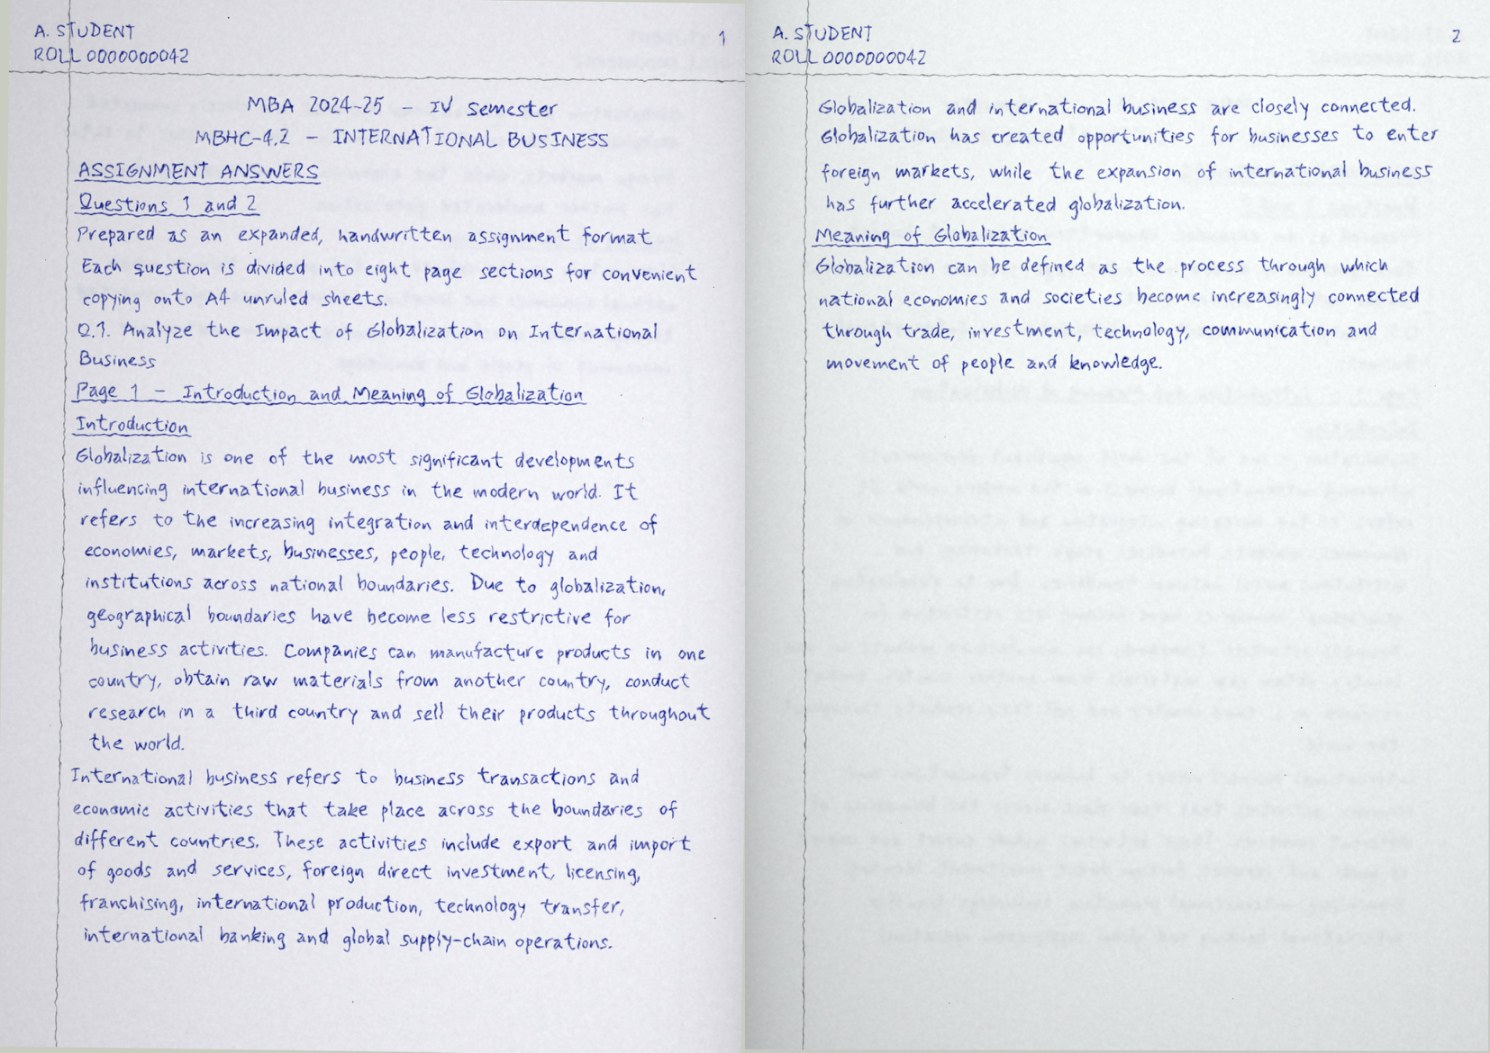
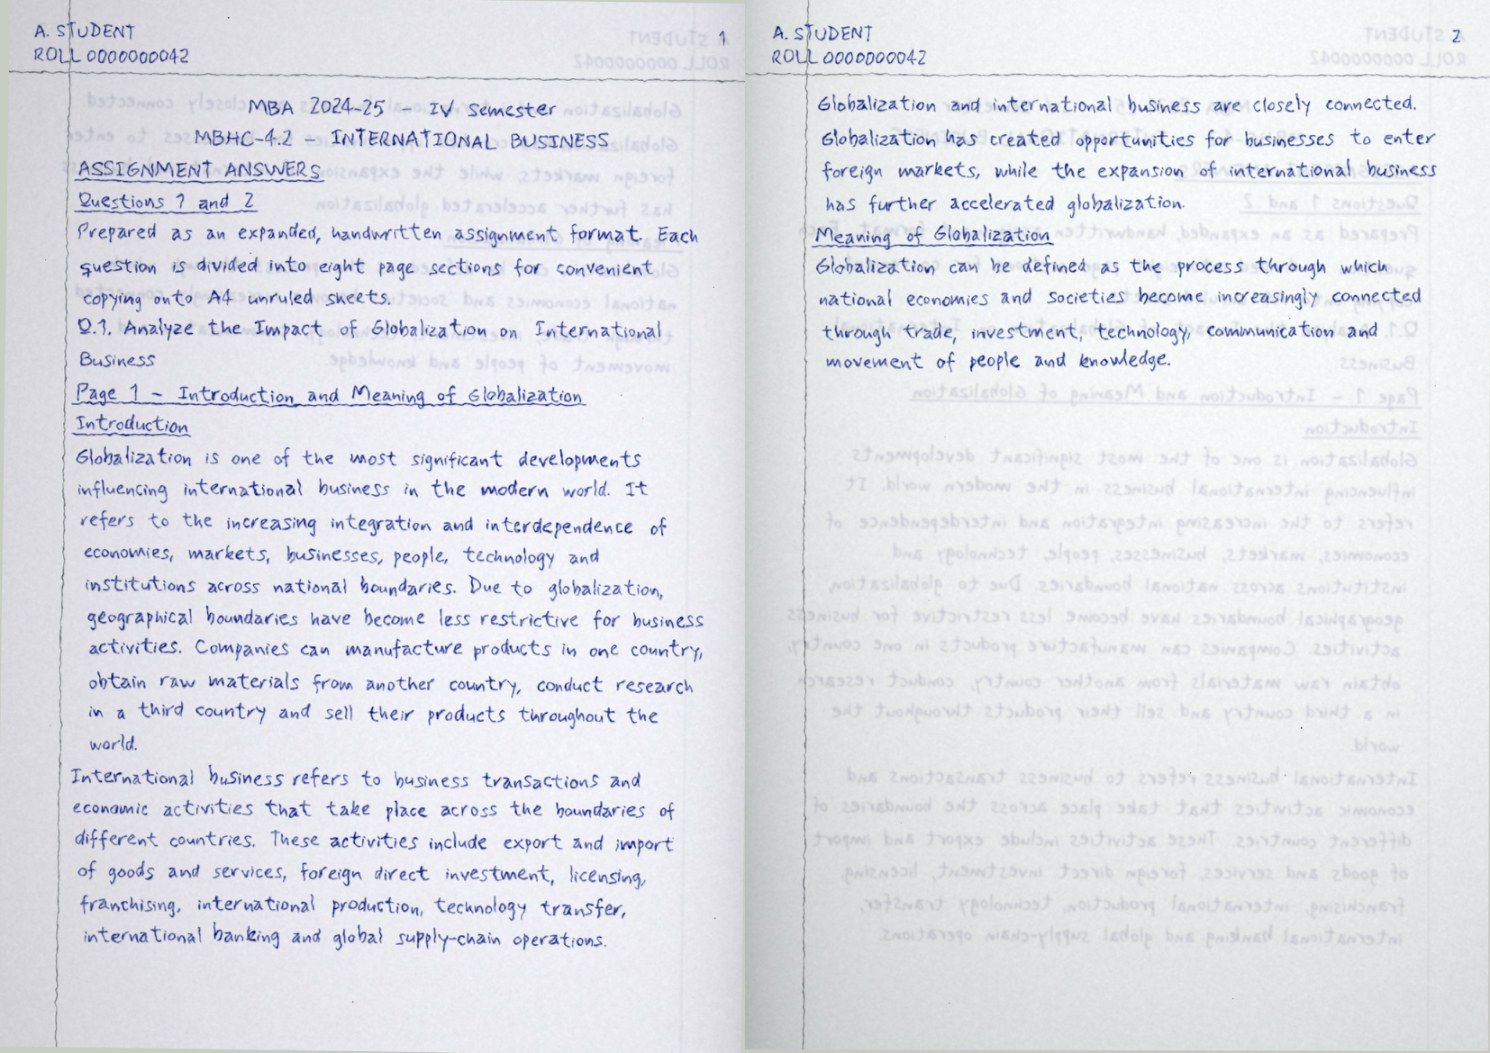
Show-through levels and pen-groove shadows for scan/photo looks
- show_through_level light/medium/strong: reverse-side writing (mirrored,
  half-resolution uint8 masks) now visible like on a photographed sheet;
  medium is the preset default
- pen_shadow: faint shadow along each stroke from the groove a ballpoint
  presses into paper (darkens paper only; text layer untouched)
- UI: show-through level select, pen-shadow toggle; preset enables both
- tests: levels darken progressively, audits still read exact text

Claude-Session: https://claude.ai/code/session_01UveRA7UWHEGDkfAG5xhPtB

Changed region(s): [[0.0309, 0.0912, 0.4631, 0.9117], [0.5557, 0.0912, 0.957, 0.3647]]

diff --git a/frontend/src/preview/SettingsPanel.jsx b/frontend/src/preview/SettingsPanel.jsx
@@ -20,6 +20,8 @@ export const DEFAULT_SETTINGS = {
   underline_headings: false,
   plain_headings: false,
   show_through: false,
+  show_through_level: 'medium',
+  pen_shadow: false,
   watermark: false,
   output: 'scanned',
   variation: 1,
@@ -42,6 +44,8 @@ export const ASSIGNMENT_PRESET = {
   underline_headings: true,
   plain_headings: true,
   show_through: true,
+  show_through_level: 'medium',
+  pen_shadow: true,
   font_size: 17,
   line_spacing: 1.5,
   paragraph_spacing: 0,
@@ -125,7 +129,7 @@ export default function SettingsPanel({ settings, onChange, compact = false }) {
       </label>
       <label className="field">
         <span>Paper</span>
-        <select className="select" value={settings.paper} onChange={(e) => set('paper')(e.target.value)}>
+        <select className="select" value={settings.paper} onChange={(e) => set('paper')(e.target.value)} data-testid="paper">
           <option value="ruled">Ruled</option>
           <option value="blank">Blank</option>
           <option value="grid">Grid</option>
@@ -169,7 +173,21 @@ export default function SettingsPanel({ settings, onChange, compact = false }) {
       </label>
       <YesNo label="Underline headings (hand-drawn)" value={settings.underline_headings} onChange={set('underline_headings')} testid="underline-headings" />
       <YesNo label="Headings written like normal text (not bold/large)" value={settings.plain_headings} onChange={set('plain_headings')} testid="plain-headings" />
-      <YesNo label="Show-through from back of page (scan/photo look)" value={settings.show_through} onChange={set('show_through')} testid="show-through" />
+      <label className="field">
+        <span>Writing showing through from the back (scan/photo look)</span>
+        <select
+          className="select"
+          value={settings.show_through ? settings.show_through_level || 'medium' : 'off'}
+          onChange={(e) => onChange({ ...settings, show_through: e.target.value !== 'off', show_through_level: e.target.value === 'off' ? settings.show_through_level || 'medium' : e.target.value })}
+          data-testid="show-through"
+        >
+          <option value="off">Off</option>
+          <option value="light">Light</option>
+          <option value="medium">Medium (like real paper)</option>
+          <option value="strong">Strong (thin paper)</option>
+        </select>
+      </label>
+      <YesNo label="Pen-pressure shadow on strokes (scan/photo look)" value={settings.pen_shadow} onChange={set('pen_shadow')} testid="pen-shadow" />
       <label className="field">
         <span>“Generated with WriteAI” footer</span>
         <select className="select" value={settings.watermark ? 'yes' : 'no'} onChange={(e) => set('watermark')(e.target.value === 'yes')}>

diff --git a/frontend/e2e/assignment-sheet.spec.js b/frontend/e2e/assignment-sheet.spec.js
@@ -15,16 +15,17 @@ test('assignment sheet preset renders header, top-right page numbers and heading
   await page.getByTestId('preset-assignment').click();
   await page.getByTestId('header-name').fill('Test Student');
   await page.getByTestId('header-id').fill('ROLL-123');
-  await expect(page.getByLabel('Paper')).toHaveValue('assignment');
+  await expect(page.getByTestId('paper')).toHaveValue('assignment');
   await expect(page.getByTestId('page-numbers')).toHaveValue('top-right');
   await expect(page.getByTestId('underline-headings')).toHaveValue('yes');
+  await expect(page.getByTestId('show-through')).toHaveValue('medium');
 
   // Settings are saved per document (the preset + typed header).
   await expect
     .poll(async () => (await (await request.get(`/api/documents/${id}/render-settings`)).json()).header_id, { timeout: 10_000 })
     .toBe('ROLL-123');
   const saved = await (await request.get(`/api/documents/${id}/render-settings`)).json();
-  expect(saved).toMatchObject({ paper: 'assignment', style: 'student', ink: 'ballpoint', output: 'photo', header_name: 'Test Student', underline_headings: true, plain_headings: true, show_through: true });
+  expect(saved).toMatchObject({ paper: 'assignment', style: 'student', ink: 'ballpoint', output: 'photo', header_name: 'Test Student', underline_headings: true, plain_headings: true, show_through: true, show_through_level: 'medium', pen_shadow: true });
 
   await page.getByTestId('update-preview').click();
   await expect(page.getByTestId('preview-page').first()).toBeVisible({ timeout: 60_000 });
@@ -37,7 +38,7 @@ test('assignment sheet preset renders header, top-right page numbers and heading
 
   // Notebook preset puts the defaults back but keeps the typed name/ID.
   await page.getByTestId('preset-notes').click();
-  await expect(page.getByLabel('Paper')).toHaveValue('ruled');
+  await expect(page.getByTestId('paper')).toHaveValue('ruled');
   await expect(page.getByTestId('underline-headings')).toHaveValue('no');
   await expect(page.getByTestId('header-name')).toHaveValue('Test Student');
 });

diff --git a/backend/pdf/scan.py b/backend/pdf/scan.py
@@ -46,7 +46,7 @@ def back_of_page(masks: list[np.ndarray], i: int) -> np.ndarray:
         src = masks[i + 1] if i + 1 < len(masks) else masks[i - 1]
     else:
         src = np.roll(masks[i], masks[i].shape[0] // 37, axis=0)
-    return src[:, ::-1]
+    return np.ascontiguousarray(src[:, ::-1])
 
 
 def _smooth_noise(rng, h: int, w: int, sigma: float, amp: float) -> np.ndarray:
@@ -76,7 +76,26 @@ def hand_warp(rgb: np.ndarray, rng, dpi: int) -> np.ndarray:
     return cv2.remap(rgb, m1, m2, interpolation=cv2.INTER_LINEAR, borderMode=cv2.BORDER_REPLICATE)
 
 
-def scan_effect(rgb: np.ndarray, seed: int, dpi: int, back: np.ndarray | None = None, look: str = "scanned", thin_px: int = 0) -> np.ndarray:
+# Show-through levels: (darkening strength, blur in px at 150 DPI). Medium
+# matches a photographed assignment on ordinary 70 gsm paper.
+THROUGH_LEVELS = {"light": (1.0, 2.4), "medium": (2.6, 1.5), "strong": (4.0, 1.1)}
+
+
+def pen_groove_shadow(img: np.ndarray, ink: np.ndarray, k: float) -> None:
+    """A ballpoint presses a groove into the paper; light from the side puts
+    a faint shadow along one edge of every stroke. Darkens the paper just
+    below-right of the ink (in place)."""
+    h, w = ink.shape
+    d = max(1.0, 1.1 * k)
+    m = np.float32([[1, 0, d], [0, 1, d]])
+    shadow = cv2.warpAffine(ink, m, (w, h), flags=cv2.INTER_LINEAR, borderValue=0)
+    cv2.GaussianBlur(shadow, (0, 0), 0.9 * k, dst=shadow)
+    shadow *= 1.0 - ink  # only on paper, never over the ink itself
+    for c, tone in enumerate((0.14, 0.14, 0.12)):  # grey, a touch warm
+        img[..., c] *= 1.0 - tone * shadow
+
+
+def scan_effect(rgb: np.ndarray, seed: int, dpi: int, back: np.ndarray | None = None, look: str = "scanned", thin_px: int = 0, through: str = "medium", pen_shadow: bool = False) -> np.ndarray:
     """Apply scanner-like degradation to an RGB uint8 page image. ``back`` is
     an optional ink mask of the reverse side (already mirrored).
 
@@ -105,14 +124,21 @@ def scan_effect(rgb: np.ndarray, seed: int, dpi: int, back: np.ndarray | None = 
     img += 1.0
     del flow
 
+    if pen_shadow:
+        pen_groove_shadow(img, ink_mask(rgb), k)
+
     # 0. Show-through: the reverse side's writing, diffused by the paper.
     if back is not None:
         ghost = back.astype(np.float32)
+        if back.dtype == np.uint8:
+            ghost *= 1.0 / 255.0
         if ghost.shape != (h, w):
             ghost = cv2.resize(ghost, (w, h), interpolation=cv2.INTER_LINEAR)
-        cv2.GaussianBlur(ghost, (0, 0), sigmaX=(3.2 if photo else 2.4) * k, dst=ghost)
+        strength, blur = THROUGH_LEVELS.get(through, THROUGH_LEVELS["medium"])
+        if photo:
+            strength *= 1.15  # thin paper under a phone's light
+        cv2.GaussianBlur(ghost, (0, 0), sigmaX=blur * k, dst=ghost)
         plane = np.empty((h, w), np.float32)
-        strength = 1.4 if photo else 1.0  # thin paper under a phone's light
         for c, tone in enumerate((0.055, 0.05, 0.035)):  # ink seen through paper: grey-blue
             np.multiply(ghost, -tone * strength, out=plane)
             plane += 1.0
@@ -191,16 +217,18 @@ def _pixels(page, dpi: int) -> np.ndarray:
     return np.frombuffer(pix.samples, dtype=np.uint8).reshape(pix.height, pix.width, pix.n)[..., :3]
 
 
-def scanned_pdf(visible_pdf: bytes, text_layer_pdf: bytes, seed_key: str, dpi: int = FINAL_DPI, jpeg_quality: int = 84, show_through: bool = False, look: str = "scanned", thin_px: int = 0) -> bytes:
+def scanned_pdf(visible_pdf: bytes, text_layer_pdf: bytes, seed_key: str, dpi: int = FINAL_DPI, jpeg_quality: int = 84, show_through: bool = False, look: str = "scanned", thin_px: int = 0, through: str = "medium", pen_shadow: bool = False) -> bytes:
     """Build the scanned-look PDF: one JPEG per page + invisible text layer."""
     out = fitz.open()
     with fitz.open(stream=visible_pdf, filetype="pdf") as src, fitz.open(stream=text_layer_pdf, filetype="pdf") as layer:
         # Reverse-side ink is blurred anyway: low-resolution masks keep memory
         # small for long documents (resized up in scan_effect).
-        masks = [ink_mask(_pixels(page, max(36, dpi // 4))) for page in src] if show_through else []
+        # Half resolution, stored as uint8: legible reverse-side writing at
+        # ~1 MB per page.
+        masks = [(ink_mask(_pixels(page, max(48, dpi // 2))) * 255).astype(np.uint8) for page in src] if show_through else []
         for i, page in enumerate(src):
             rgb = _pixels(page, dpi)
-            scanned = scan_effect(rgb, _seed(seed_key, i), dpi, back_of_page(masks, i) if show_through else None, look, thin_px)
+            scanned = scan_effect(rgb, _seed(seed_key, i), dpi, back_of_page(masks, i) if show_through else None, look, thin_px, through, pen_shadow)
             ok, jpg = cv2.imencode(".jpg", cv2.cvtColor(scanned, cv2.COLOR_RGB2BGR), [cv2.IMWRITE_JPEG_QUALITY, jpeg_quality])
             if not ok:  # pragma: no cover
                 raise RuntimeError("JPEG encoding failed")

diff --git a/backend/tests/test_layout.py b/backend/tests/test_layout.py
@@ -442,3 +442,23 @@ def test_unruled_paper_avoids_collisions_by_small_steps():
     # page compact: never more pages than ruled paper.
     assert len(sheet.pages) <= len(ruled.pages)
     assert check_layout(d, sheet).passed
+
+
+def test_show_through_levels_and_pen_shadow():
+    d = long_doc(1)
+    base = RenderSettings(**PHOTO_ASSIGNMENT)
+
+    def mean(s):
+        _, (pdf, _) = _scan(d, s)
+        with pymupdf.open(stream=pdf) as doc:
+            px = doc[0].get_pixmap(dpi=40)
+            return sum(px.samples) / len(px.samples), pdf
+
+    off, _ = mean(base.model_copy(update={"show_through": False}))
+    levels = [mean(base.model_copy(update={"show_through_level": lv}))[0] for lv in ("light", "medium", "strong")]
+    assert off > levels[0] > levels[1] > levels[2]  # each level shows more of the back
+    shadow, pdf = mean(base.model_copy(update={"pen_shadow": True}))
+    assert shadow < levels[1]  # stroke shadows add a little grey
+    dl = layout(d, base.model_copy(update={"pen_shadow": True}), "h")
+    a = audit_pdf(d, dl, pdf, {"content_hash": "h"}, check_strokes=False)
+    assert a.passed and a.metrics["text_similarity"] == 1.0  # text layer untouched

diff --git a/backend/services/render.py b/backend/services/render.py
@@ -57,7 +57,7 @@ def build_pdf(dl, settings: RenderSettings, meta: dict, dpi: int) -> tuple[bytes
         return visible, visible
     layer = render_pdf(dl, meta, text_layer_only=True)
     seed_key = f"{meta.get('content_hash', '')}:{settings.seed}"
-    return scanned_pdf(visible, layer, seed_key, dpi=dpi, show_through=settings.show_through, look=settings.output, thin_px=STYLES[settings.style].thin_px), visible
+    return scanned_pdf(visible, layer, seed_key, dpi=dpi, show_through=settings.show_through, look=settings.output, thin_px=STYLES[settings.style].thin_px, through=settings.show_through_level, pen_shadow=settings.pen_shadow), visible
 
 
 def _meta(head, title: str, s_hash: str) -> dict:

diff --git a/backend/layout/settings.py b/backend/layout/settings.py
@@ -41,6 +41,10 @@ class RenderSettings(BaseModel):
     plain_headings: bool = False
     # Scanned look only: faint mirrored writing from the back of the sheet.
     show_through: bool = False
+    show_through_level: Literal["light", "medium", "strong"] = "medium"
+    # Scan/photo looks: faint shadow along each pen stroke (the groove a
+    # ballpoint presses into paper, lit from the side).
+    pen_shadow: bool = False
     watermark: bool = False  # optional small "Generated with WriteAI" footer
     # scanned: flatbed/scan-app look; photo: a phone photo of the sheet (cool
     # white paper, uneven light); clean: the vector PDF.

diff --git a/docs/handwriting-engine.md b/docs/handwriting-engine.md
@@ -112,6 +112,22 @@ scan: cool white paper under room light, a stronger light fall-off, a soft
 shadow where the sheet curves towards the binding, slightly more tilt, and
 stronger show-through.
 
+## Shadows: show-through and pen grooves
+
+* **Show-through** (`show_through`, `show_through_level`): the reverse side
+  of each sheet is another page's writing (the next page, else the previous
+  one), mirrored left↔right, blurred by the paper and multiplied in as
+  grey-blue. Levels: *light* (faint, very soft), *medium* (as on ordinary
+  70 gsm paper in a photo; the preset's default) and *strong* (thin paper).
+  The reverse-side masks are kept at half resolution as uint8 (~1 MB a page).
+* **Pen-groove shadow** (`pen_shadow`): a ballpoint presses a groove into the
+  paper, and side light puts a faint shadow along one edge of each stroke.
+  The ink mask is shifted ~1 px down-right, blurred and used to darken only
+  the paper next to the strokes.
+
+Neither touches the invisible text layer, so search and the PDF audit read
+the exact text (tested).
+
 ## Line grid on unruled paper
 
 On ruled and grid paper a line must sit on a printed rule, so the slot grid

diff --git a/README.md b/README.md
@@ -68,7 +68,8 @@ content hash of the exact revision it came from.
     line; your name and roll/ID number on every page; page number top-right;
     plain, hand-underlined headings; every letter shaped slightly
     differently, lines that rise and a margin that drifts; uneven ballpoint
-    ink and writing showing through from the back of the sheet;
+    ink, pen-pressure shadows along the strokes, and writing showing through
+    from the back of the sheet (light / medium / strong);
   - size, line spacing, paragraph spacing and margins;
   - page numbers (bottom or top-right), variation amount and seed.
 * **Quality gate:** overflow, ink overlap, empty pages, exact content
